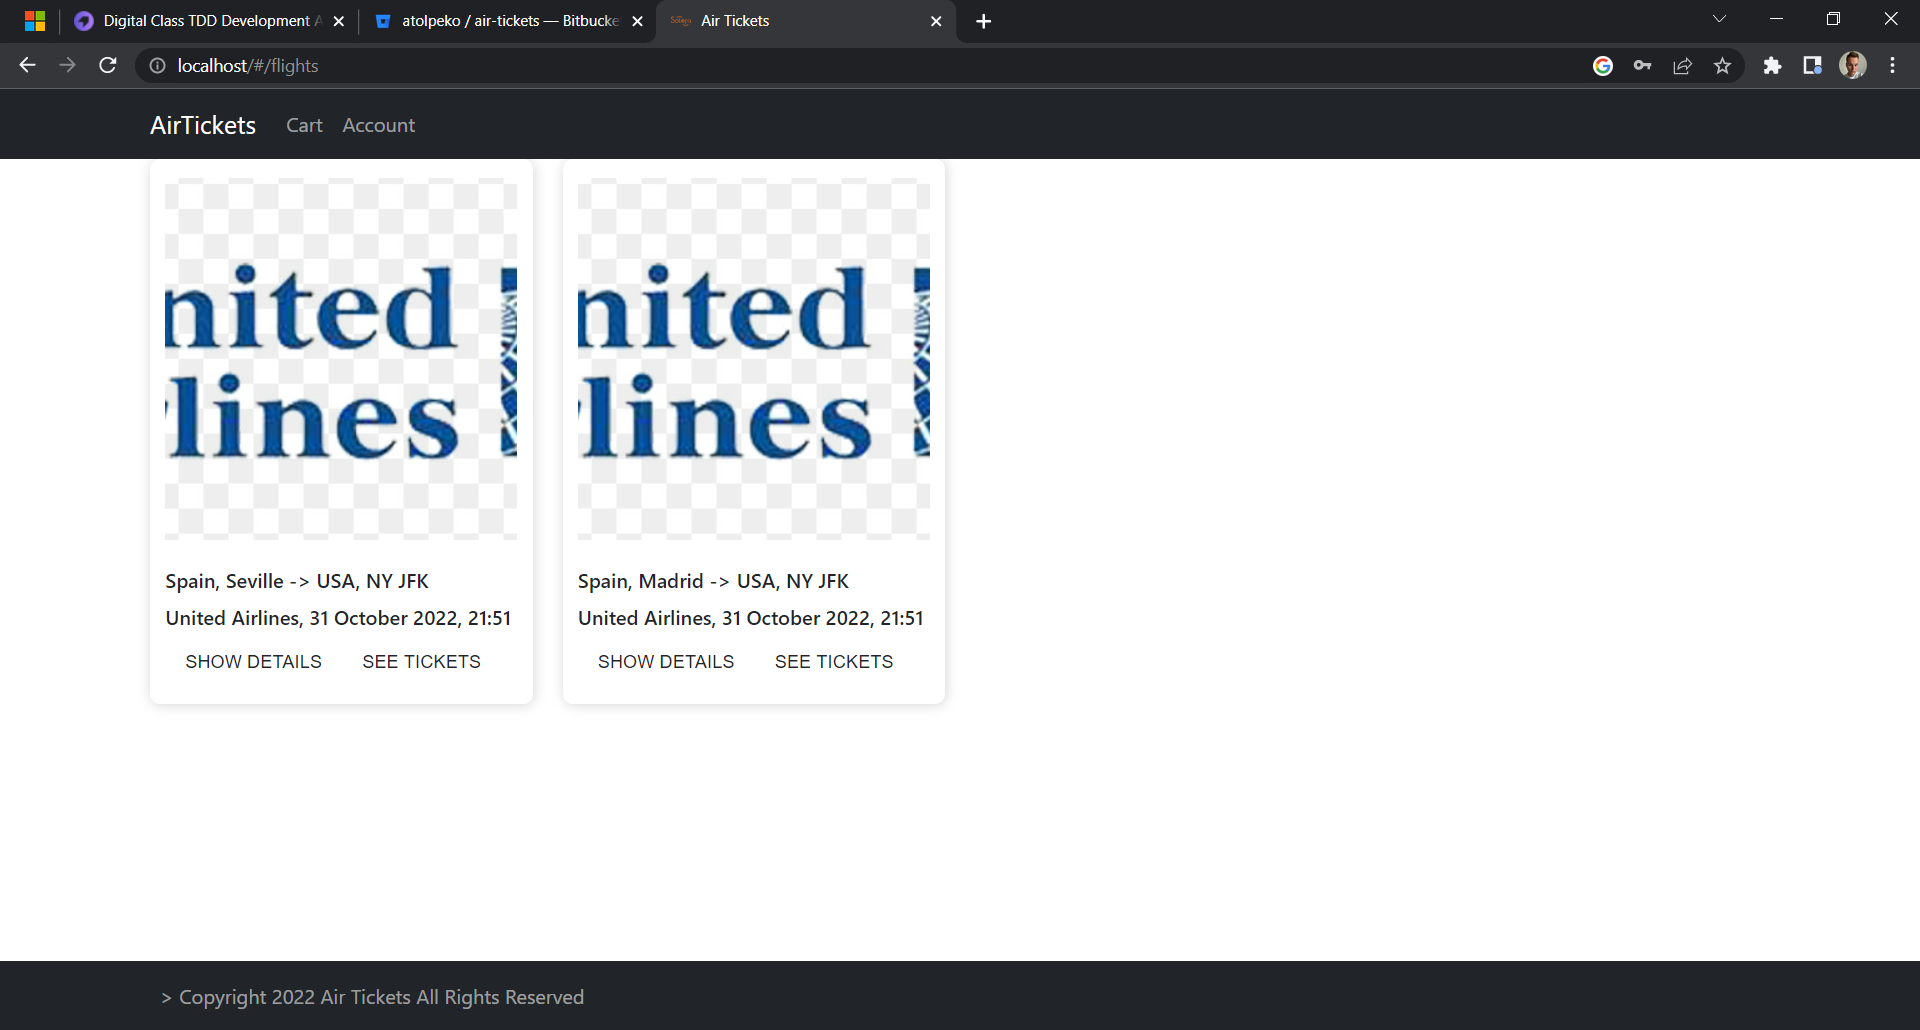
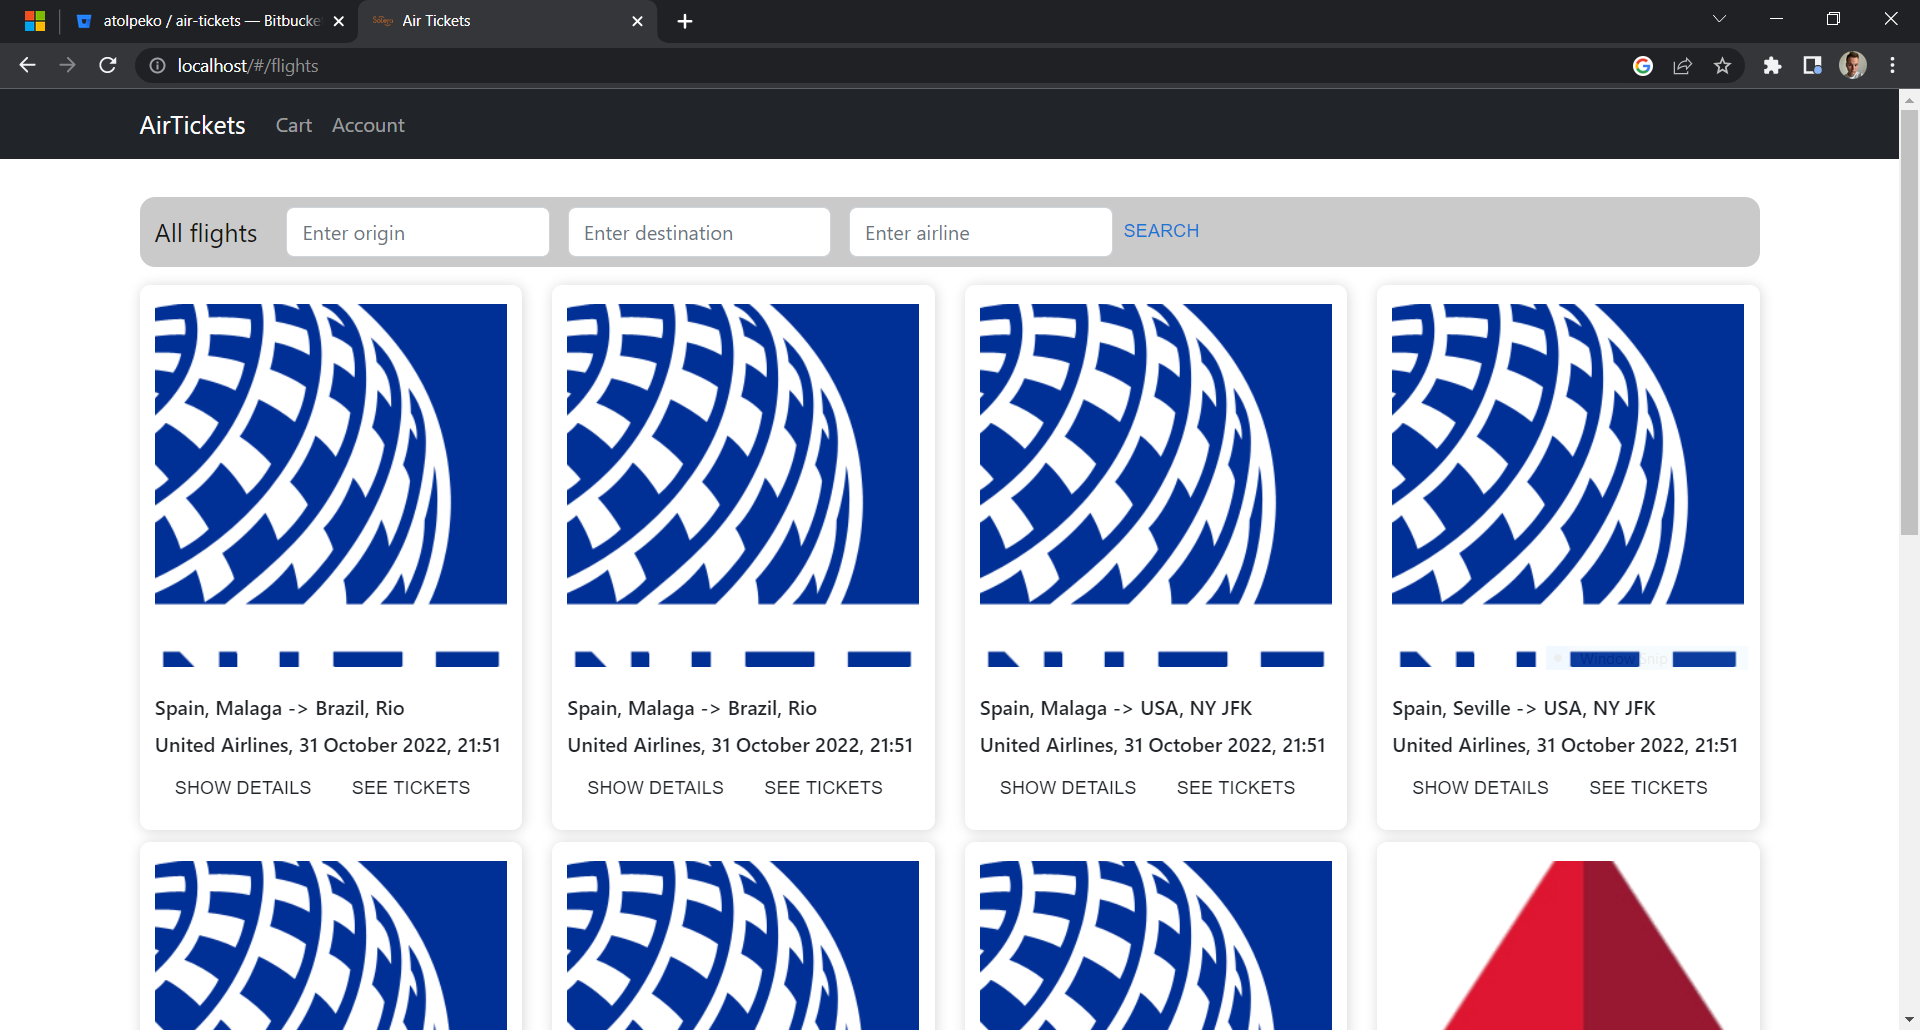
Readme updated

diff --git a/README.md b/README.md
@@ -65,7 +65,11 @@ All the endpoints follow the REST API Resource naming conventions.
 
 * HTTP GET http://localhost/flights - get all flights
 * HTTP GET http://localhost/flights/{id} - get the flight with the specified ID
-* HTTP GET http://localhost/flights?airline=... - get all flights with the specified airline ID
+* HTTP GET http://localhost/flights?airlineId=... - get all flights with the specified airline ID
+* HTTP GET http://localhost/flights?airlineName=... - get all flights with the specified airline name
+* HTTP GET http://localhost/flights?origin=...&destination=... - get all flights with the specified origin and destination
+* HTTP GET http://localhost/flights?origin=...&destination=...&airline=... - get all flights with the specified origin, destination
+and airline name
 * HTTP POST http://localhost/flights - create a new flight (autentication required)
 * HTTP PATCH http://localhost/flights/{id} - edit the flight with the specified ID (autentication required)
 * HTTP DELETE http://localhost/flights/{id} - delete the flight with the specified ID (autentication required)
@@ -92,15 +96,16 @@ which allow luggage
 
 #### Flights:
 ![flights](screenshots/flights.png)
+![flights](screenshots/flights-sorted.png)
 
 #### Tickets:
 ![tickets](screenshots/tickets.png)
+![tickets](screenshots/tickets-sorted.png)
 
 #### Cart:
 ![cart](screenshots/cart.png)
 
-#### Account sign in:
+#### Account:
 ![sign-in](screenshots/sign-in.png)
-
-#### Account sign up:
 ![sign-up](screenshots/sign-up.png)
+![account](screenshots/account.png)
